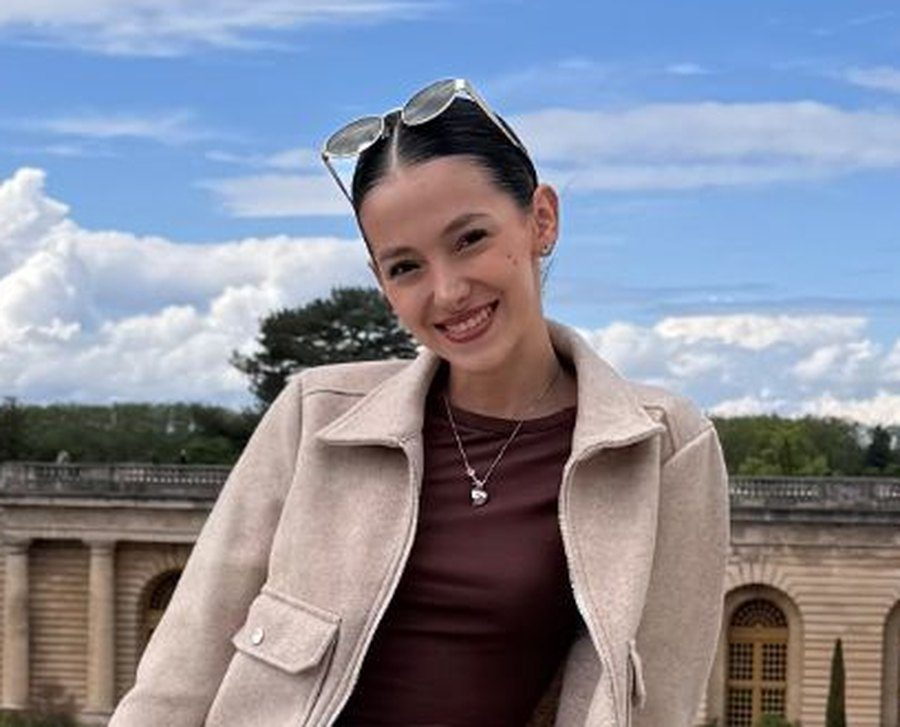
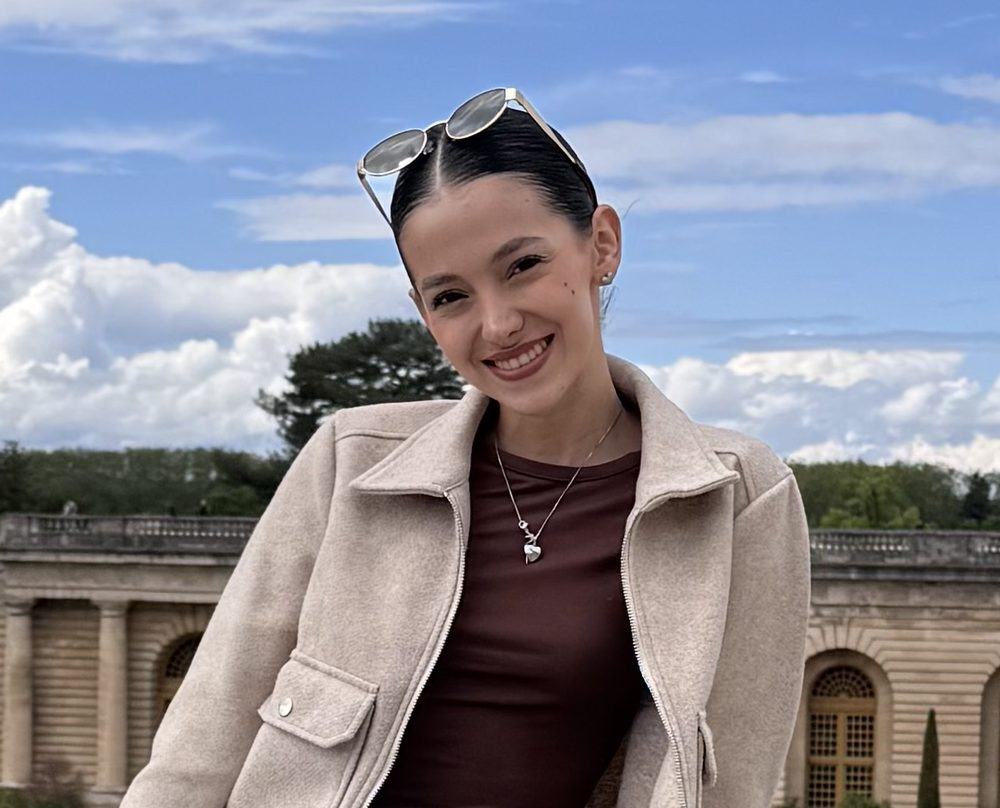
Sobre mí: foto de perfil desde el original en alta resolución

diff --git a/index.html b/index.html
@@ -26,17 +26,17 @@
   <link rel="preconnect" href="https://fonts.googleapis.com">
   <link rel="preconnect" href="https://fonts.gstatic.com" crossorigin>
   <link href="https://fonts.googleapis.com/css2?family=Geist:wght@400;500;600&display=swap" rel="stylesheet">
-  <link rel="stylesheet" href="css/home.css?v=202611231">
+  <link rel="stylesheet" href="css/home.css?v=202611232">
   <script>document.documentElement.classList.add("js")</script>
-  <script src="data/proyectos.js?v=202611231" defer></script>
-  <script src="data/home.js?v=202611231" defer></script>
-  <script src="js/i18n.js?v=202611231" defer></script>
-  <script src="js/render.js?v=202611231" defer></script>
-  <script src="data/ai-lab.js?v=202611231" defer></script>
-  <script src="js/ai-lab.js?v=202611231" defer></script>
-  <script src="js/home-v2.js?v=202611231" defer></script>
-  <script src="js/main.js?v=202611231" defer></script>
-  <script src="js/motion.js?v=202611231" defer></script>
+  <script src="data/proyectos.js?v=202611232" defer></script>
+  <script src="data/home.js?v=202611232" defer></script>
+  <script src="js/i18n.js?v=202611232" defer></script>
+  <script src="js/render.js?v=202611232" defer></script>
+  <script src="data/ai-lab.js?v=202611232" defer></script>
+  <script src="js/ai-lab.js?v=202611232" defer></script>
+  <script src="js/home-v2.js?v=202611232" defer></script>
+  <script src="js/main.js?v=202611232" defer></script>
+  <script src="js/motion.js?v=202611232" defer></script>
 </head>
 <body>
   <a href="#main" class="skip" data-i18n="skip">Saltar al contenido</a>

diff --git a/data/home.js b/data/home.js
@@ -14,7 +14,7 @@ window.HOME = {
     es: "Disponible · Product Designer o UX/UI Designer · Remoto",
     en: "Available · Product Designer or UX/UI Designer · Remote",
   },
-  retrato: { src: "assets/retrato/isabella.jpg?v=1", alt: { es: "Retrato de Isabella Montes", en: "Portrait of Isabella Montes" } },
+  retrato: { src: "assets/retrato/isabella.jpg?v=2", alt: { es: "Retrato de Isabella Montes", en: "Portrait of Isabella Montes" } },
 
   /* ---------- Cifras (se animan al entrar en pantalla) ---------- */
   cifras: [
